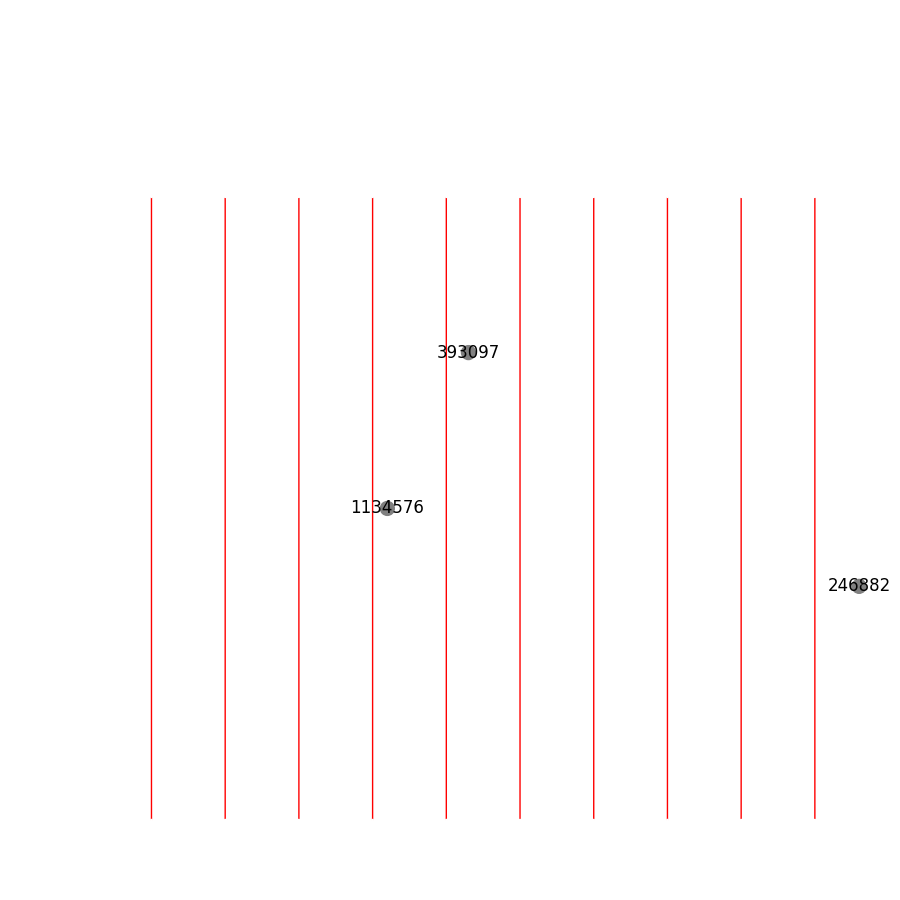
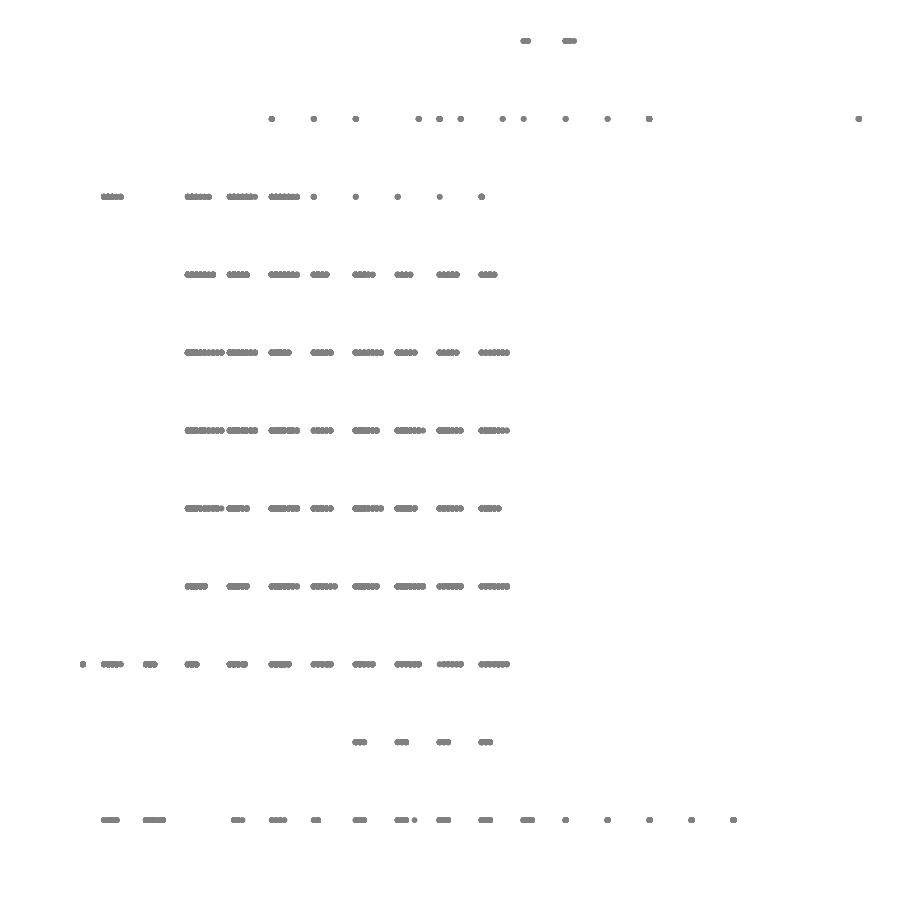
shelf

diff --git a/algorithm/algorithms.py b/algorithm/algorithms.py
@@ -3,19 +3,32 @@ import networkx as nx
 import matplotlib.pyplot as plt
 import utils.LoggerFactory as LF
 from objs.DataHandler import DataHandler
-shelf = [
-         [[20,0],[20,16]],
-
-         [[18, 0], [18, 16]],
-         [[16, 0], [16, 16]],
-         [[14, 0], [14, 16]],
-         [[12, 0], [12, 16]],
-         [[10, 0], [10, 16]],
-         [[8,0],[8,16]],
-         [[6,0],[6,16]],
-         [[4,0],[4,16]],
-         [[2,0],[2,16]],
+# shelf = [
+#          [[20,0],[20,16]],
+#
+#          [[18, 0], [18, 16]],
+#          [[16, 0], [16, 16]],
+#          [[14, 0], [14, 16]],
+#          [[12, 0], [12, 16]],
+#          [[10, 0], [10, 16]],
+#          [[8,0],[8,16]],
+#          [[6,0],[6,16]],
+#          [[4,0],[4,16]],
+#          [[2,0],[2,16]],
+#          ]
+shelf = [[[0,0],[20,0]],
+         [[0,2],[20,2]],
+         [[0,4],[20,4]],
+         [[0,6],[20,6]],
+         [[0,8],[20,8]],
+         [[0,10],[20,10]],
+         [[0,12],[20,12]],
+         [[0,14],[20,14]],
+         [[0,16],[20,16]],
+         [[0,18],[20,18]],
+         [[0,20],[20,20]],
          ]
+
 logger=LF.get_logger(__name__)
 def dijkstra(start: int, mgraph: list) -> list:
     passed = [start]
@@ -111,5 +124,33 @@ def draw_png_dot_graph(products,path):
 # p = [[1,8.2,10],[2,6.62,10],[4,16.4,12]]
 # draw_png_dot_graph(p,"../data/path/dot.png")
 
-def build_shelf():
-   pass
+def draw_warehouse(products,path):
+    logger.info("drawing")
+    plt.figure(figsize=(9, 9))
+    G = nx.Graph()
+    for p in anchor:
+        G.add_node(-p[0] - p[1], label="", pos=(p[0], p[1]), col='white', size=1)
+
+    for p in products:
+        G.add_node(p[0], label="", pos=(p[1], p[2]), col='grey', size=10)
+
+    for ind in range(len(shelf)):
+        s = shelf[ind]
+        id1 = str(s[0][0])+str(s[0][1])
+        id2 = str(s[1][0])+str(s[1][1])
+        G.add_node(id1, label="", pos=(s[0][0], s[0][1]), col='white', size=1)
+        G.add_node(id2, label="", pos=(s[1][0], s[1][1]), col='white', size=1)
+        G.add_edge(id1, id2, col='red')
+
+    pos = nx.get_node_attributes(G, 'pos')
+    node_labels = nx.get_node_attributes(G, 'label')
+    col = nx.get_node_attributes(G, 'col').values()
+    size = list(nx.get_node_attributes(G, 'size').values())
+    edge_color = nx.get_edge_attributes(G, 'col').values()
+    nx.draw(G, pos=pos, node_size=size,  node_color=col,
+            arrowstyle='-', arrows=True,
+            arrowsize=30, edge_color=edge_color,
+            width=1
+            )
+    plt.savefig(path)
+    logger.info("draw_png_graph generate: warehouse.png")

diff --git a/objs/WareHouse.py b/objs/WareHouse.py
@@ -27,6 +27,7 @@ class WareHouse:
         self.start_point = (0.0, 0.0)
         self.end_point = (0.0, 0.0)
         self.products_index_of_one_order_in_data = []
+        self.id_to_ind_dict = {}
 
     def set_rules(self, num):
         if num == 0:
@@ -100,7 +101,10 @@ class WareHouse:
 
     def load_data(self, path):
         self.data = self.dhandler.load_txt(path)
-        for d in self.data:
+        for ind,d in enumerate(self.data):
             product = Products.Product(int(d[0]), d[1], d[2])
             self.products.append(product)
+            self.id_to_ind_dict[d[0]] = ind
 
+        pro_list = [[p.get_id(),p.x,p.y] for p in self.products]
+        draw_warehouse(pro_list,"data/path/warehouse.png")

diff --git a/UI/main_window.py b/UI/main_window.py
@@ -132,6 +132,9 @@ class Main_UI(QMainWindow):
         logger.info('loading file location: {}'.format(filename))
         self.warehouse.load_data(str(filename))
 
+        img_name = "data/path/warehouse.png"
+        img = QPixmap(img_name).scaled(self.label_graph.width(), self.label_graph.height())
+        self.label_graph.setPixmap(img)
         #img_name = "data/images/graph_demo.png"
         #img = QPixmap(img_name).scaled(self.label_graph.width(), self.label_graph.height())
         #self.label_graph.setPixmap(img)
